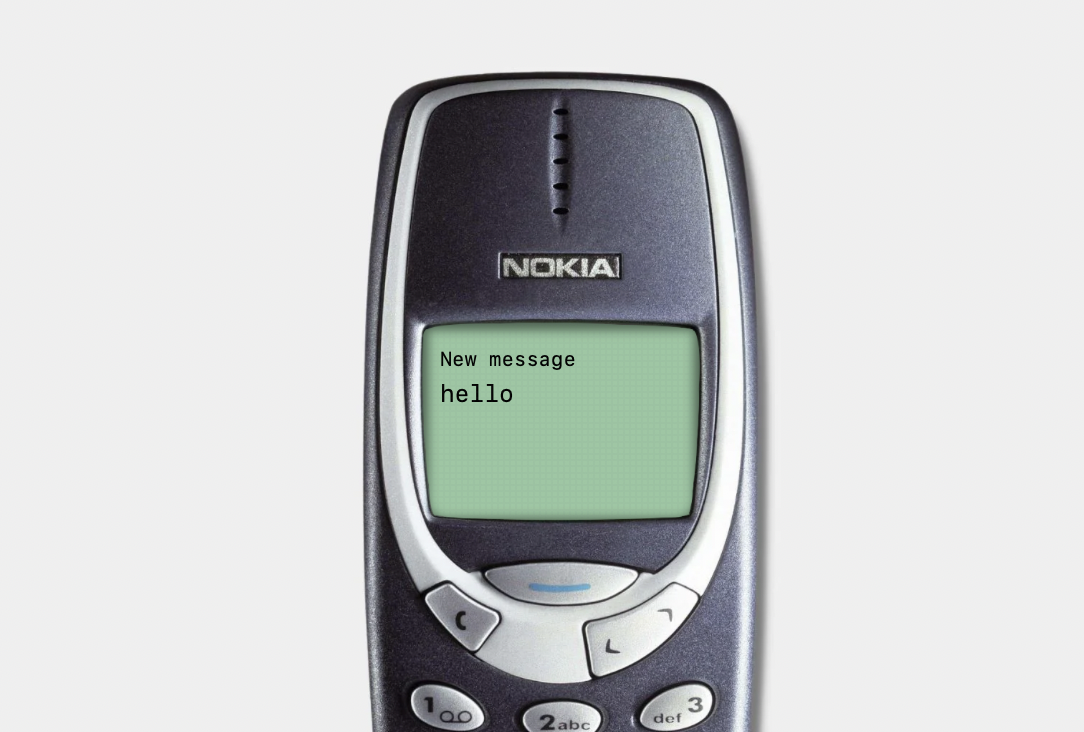
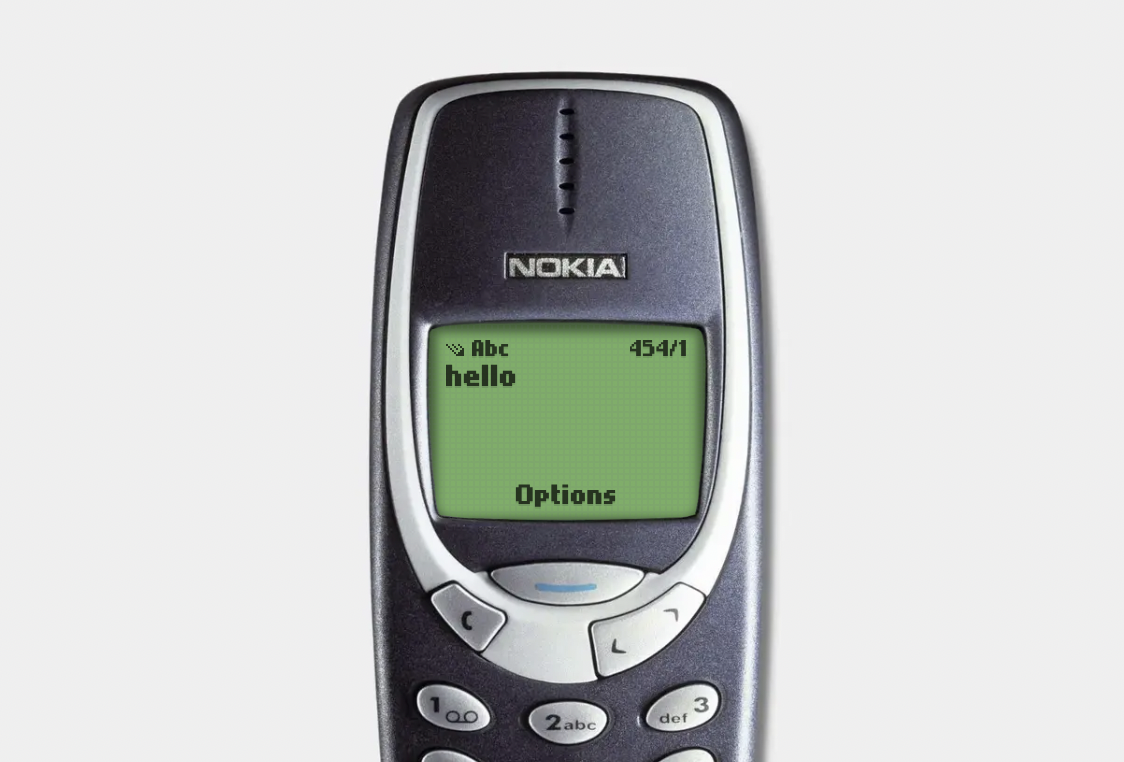
new cover

Changed region(s): [[0.3044, 0.0902, 0.7306, 1.0]]

diff --git a/app/layout.tsx b/app/layout.tsx
@@ -14,7 +14,7 @@ export const metadata: Metadata = {
 	title: "3310 - j3c7",
 	description: "The best phone ever?",
 	openGraph: {
-		images: [{ url: "/cover.png" }],
+		images: [{ url: "/cover.png?v=2" }],
 	},
 };
 
